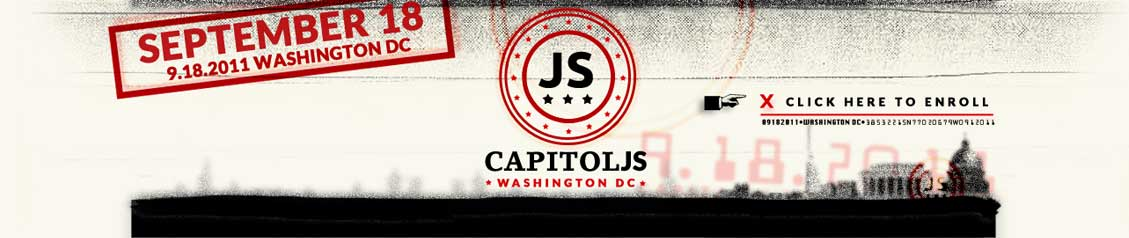
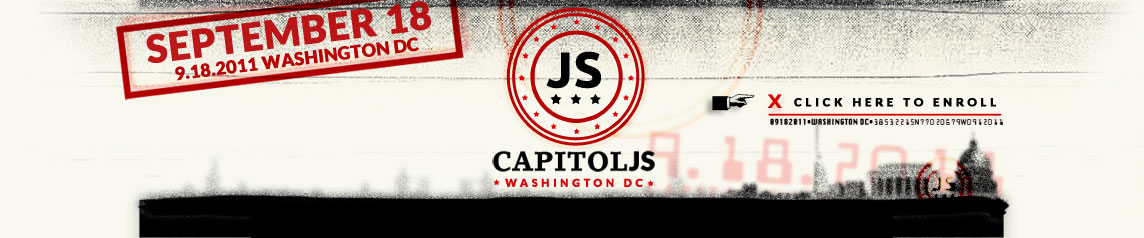
Updates to the base set of code to provide for sponsor listing and various other items.

diff --git a/2011/index.html b/2011/index.html
@@ -9,6 +9,11 @@
 	<meta name="viewport" content="width=device-width, initial-scale=1.0">
 	<link href='http://fonts.googleapis.com/css?family=Ubuntu:regular,bold' rel='stylesheet' type='text/css'>
 	<link rel="stylesheet" href="stylesheets/style.css">
+	<link rel="shortcut icon" href="http://2011.jsconf.us/images/favicon.png" > 
+  <meta name="keywords" content="capitoljs, JavaScript, js, Washington DC JS, jsconf, js conference, javascript conference" /> 
+  <!--[if lt IE 9]>
+  <script src="http://html5shiv.googlecode.com/svn/trunk/html5.js"></script>
+  <![endif]-->
 </head>
 <body>
 	<div id="container">
@@ -16,7 +21,7 @@
       <h1>CapitolJS</h1>
       <h2>September 18, 2011</h2>
       <h3><a href="">Washington, DC</a></h3>
-      <a id='enroll' href="http://capitoljs2011.eventbrite.com">Enroll Now</a>
+      <a id='enroll' href="http://capitoljs2011.eventbrite.com"><span>Click Here To Enroll | 09:18:2011:WASHINGTONDC:CAPITOLJS</span></a>
 		</header>
 		<navigation>
 		  <ul>
@@ -27,16 +32,37 @@
 		    <li><a href="/">About</a></li>
 		  </ul>
 	  </navigation>
-		<div id="main" role="main">
-      Content Here
+		<div id="main" role="main" class='split clearfix'>
+  		<div id='left'>
+      	<h1>Announcing CapitolJS</h1>
+      	<p>Good <span id='time'>day</span> agent. Your mission, should you choose to accept it, involves the learning of the programming language JavaScript and how to use it properly and effectively. You will be joined by an intimate task force of elite members of the JavaScript community to assist you in this task. You may select to attend either or both of the evening social events occurring the night before and night of the event. This event is happening on September 18<sup>th</sup>, 2011 in Washington, DC at the <a href="http://www.hotelpalomar-arlington.com/">Hotel Palomar</a>. If you accept this mission, be sure to follow <a href="http://www.twitter.com/capitoljs">@capitoljs</a> and <a href="http://capitoljs2011.eventbrite.com">register today</a>, like all JSConf events - it will sell out. See you in Washington DC.</p>
+      	<p>If you are enrolling for CapitolJS, be sure to stay at the conference hotel - the Hotel Palomar in Arlington, VA for the low price of $149.00/night. <a href="https://gc.synxis.com/rez.aspx?Hotel=26723&amp;Chain=10179&amp;arrive=9/17/2011&amp;depart=9/19/2011&amp;adult=1&amp;child=0&amp;group=11540401133">Reserve your hotel room today!</a></p>
+      </div>
+  		<div id='right'>
+	      <div class="sponsor">
+	        <a href="sponsors.html#hpwebos"><img src="images/sponsors/hpwebos.png" alt="HP Web OS"/></a>
+        </div>
+	      <div class="sponsor">
+	        <a href="sponsors.html#zappos"><img src="images/sponsors/zappos.png" alt="Zappos"/></a>
+        </div>
+	      <div class="sponsor">
+	        <a href="sponsors.html#yammer"><img src="images/sponsors/yammer.png" alt="Yammer"/></a>
+        </div>
+	      <div class="sponsor">
+	        <a href="sponsors.html#mozilla"><img src="images/sponsors/mozilla.png" alt="Mozilla"/></a>
+        </div>
+			</div>
 		</div>
+		<div id="close"></div>
 		<footer>
-      &lt;- &copy; Iterative Designs 2011 - &gt;
+		  <img src="images/stars.png" alt="Stars, Stars, Stars!!!" height="22" width="23"/>
+	      &copy; <a href="http://www.iterativedesigns.com">Iterative Designs</a> 2011
+		  <img src="images/stars.png" alt="Stars, Stars, Stars!!!" height="22" width="23"/>
 		</footer>
 	</div>
 
-	<script src="//ajax.googleapis.com/ajax/libs/dojo/1.6.0/dojo/dojo.xd.js"></script>
-	<script src="js/app.js"></script>
+	<script src="http://ajax.googleapis.com/ajax/libs/dojo/1.6.0/dojo/dojo.xd.js"></script>
+	<script src="javascripts/app.js"></script>
 	<script>
 		var _gaq=[['_setAccount','UA-XXXXX-X'],['_trackPageview']]; // Change UA-XXXXX-X to be your site's ID
 		(function(d,t){var g=d.createElement(t),s=d.getElementsByTagName(t)[0];g.async=1;

diff --git a/2011/stylesheets/style.css b/2011/stylesheets/style.css
@@ -8,13 +8,41 @@ caption,th,td{text-align:left;font-weight:normal;}
 blockquote:before,blockquote:after,
 q:before,q:after{content:"";}
 blockquote,q{quotes:"" "";}
-body { background: #f9f8ee url(../images/background.jpg) top center no-repeat;}
-#main { width: 862px; margin:0px auto; background: url(../images/mainbg.jpg) top left repeat-y; padding: 17px;}
-header { height: 200px; width: 866px;}
+#enroll { display: block; height: 45px; width: 300px;}
+#enroll span { display: none}
+#enroll:hover { background: url(../images/highlight.gif) top left no-repeat;  }
+header h1, header h2, header h3 { display: none}
+
+body { background: #f9f8ee url(../images/background.gif) top center no-repeat; font-family: 'Ubuntu', arial, serif;}
+#main { width: 862px; margin:0px auto; background: url(../images/mainbg.jpg) top left repeat-y; padding: 0px 17px;}
+header { height: 109px; width: 300px; margin: 0px auto}
+header { padding-top: 91px; padding-left: 567px}
+a, a:link, a:visited { color: #d20000; background: transparent;-webkit-transition-duration: 1s; }
+a:hover { background: black; color:white;}
 navigation { height: 38px; width: 866px; margin: 0px auto; display: block; text-align: center;}
-navigation a { display: inline-block; height: 38px; line-height: 38px; color: white; font-weight: bold;  font-family: 'Ubuntu', arial, serif; text-decoration: none; font-size: 14px; padding: 0px; padding-right: 15px;}
+navigation a,navigation a:link,navigation a:visited  { display: inline-block;  height: 38px; line-height: 38px; color: white; font-weight: bold; text-decoration: none; font-size: 14px; padding: 0px; padding-right: 15px; -webkit-transition-duration: 0.5s;}
 navigation ul, navigation li { list-style: none; padding: 0px; margin: 0px;}
 navigation li { display:inline-block; padding-left:15px;}
-
+navigation a:hover { color: #d20000; }
 navigation li#active a { background: transparent url(../images/navrightcap.jpg) center right no-repeat; color: black;}
 navigation li#active { background: transparent url(../images/selected.jpg) center left no-repeat; color: black;}
+p { margin: 6px 0px 8px; font-family: courier; font-size:12px; line-height: 1.3}
+#right { background: transparent url(../images/sponsorheader.jpg) top left no-repeat; padding-top: 50px; margin-left: 570px}
+#left { float: left; background: transparent url(../images/leftbg.jpg) top left no-repeat; padding: 18px 50px; width: 470px}
+footer { background: transparent url(../images/footerbg.png) top left repeat-x; height: 22px; line-height: 22px; font-size: 10px; vertical-align: middle; width: 866px; margin: 0px auto; text-align: center}
+footer img {  vertical-align: top; margin: 0px 8px; padding: 0px; height: 22px}
+#close { height: 16px; width: 898px; margin: 0px auto; background: transparent url(../images/footerfade.jpg) top left no-repeat}
+/* new clearfix */
+.clearfix:after {
+	visibility: hidden;
+	display: block;
+	font-size: 0;
+	content: " ";
+	clear: both;
+	height: 0;
+	}
+* html .clearfix             { zoom: 1; } /* IE6 */
+*:first-child+html .clearfix { zoom: 1; } /* IE7 */
+
+.sponsor { text-align: center; margin-bottom: 8px;}
+h1 { color: black; font-weight: bold; font-size: 16px; border-bottom:2px solid black; padding-bottom: 6px}

diff --git a/2011/javascripts/app.js b/2011/javascripts/app.js
@@ -1,0 +1,13 @@
+dojo.addOnLoad( function() { 
+  var d = new Date();
+  var txt = "day"
+  if (d.getHours() <= 4 || d.getHours() > 17 ) {
+    txt = "evening";
+  } else if (d.getHours() < 12 ) {
+    txt = "morning";
+  } else { 
+    txt = "afternoon"
+  } 
+  dojo.byId("time").innerHTML = txt;
+});
+
